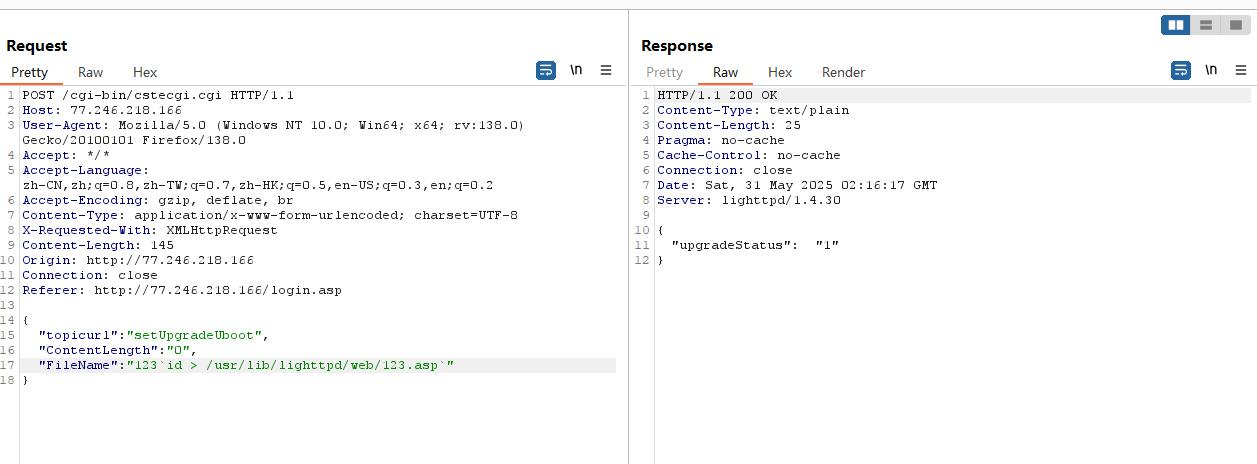
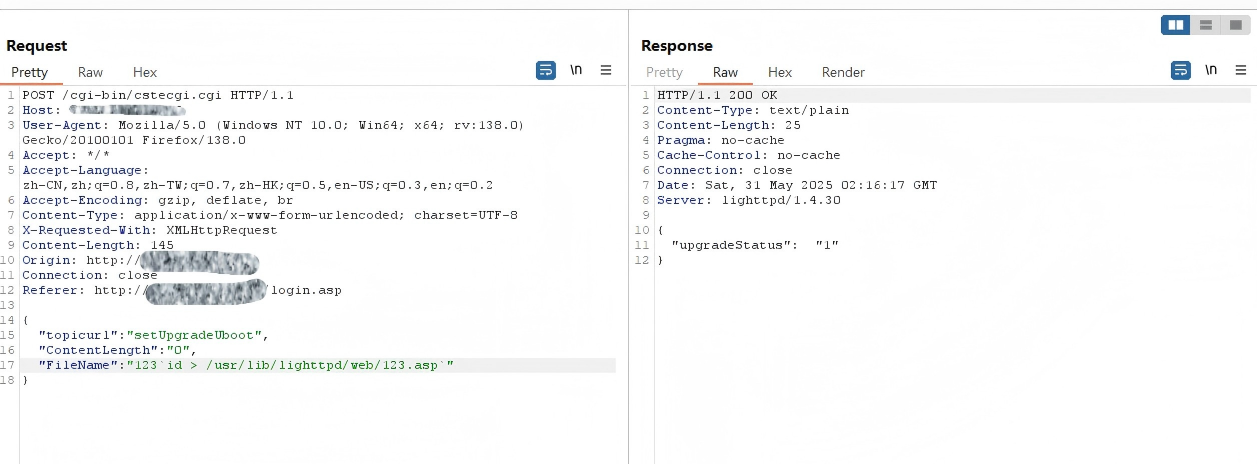
更新 README 添加 setUpgradeUboot RCE 条目

diff --git a/README.md b/README.md
@@ -56,6 +56,11 @@ This repository collects notes and proof-of-concept (PoC) materials used to repr
   - Write-up: `TOTOLINK/N300RHv4/01_setWebWlanIdx_RCE.md`
   - Notes: command injection via `/cgi-bin/cstecgi.cgi`
 
+- **02 setUpgradeUboot RCE**
+  - Write-up: `TOTOLINK/N300RHv4/02_setUpgradeUboot_RCE.md`
+  - Notes: command injection via `/cgi-bin/cstecgi.cgi`
+
+
 ## Disclaimer
 
 This repository is intended for **authorized security research and educational purposes only**.